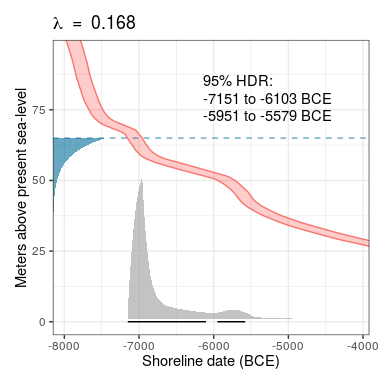
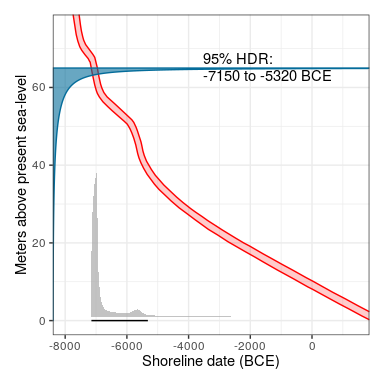
Updated readme

diff --git a/README.md b/README.md
@@ -43,8 +43,8 @@ It is also possible to plot a more sparse version of the plot by
 specifying what elements are to be excluded:
 
 ``` r
-shoredate_plot(target_date,  site_elevation = FALSE, displacement_curve = FALSE,
-               lambda = FALSE, hdr_label = FALSE)
+shoredate_plot(target_date, elevation_distribution = FALSE, displacement_curve = FALSE,
+               parameters = FALSE, hdr_label = FALSE)
 ```
 
 <img src="man/figures/README-sparse-1.png" style="display: block; margin: auto;" />
